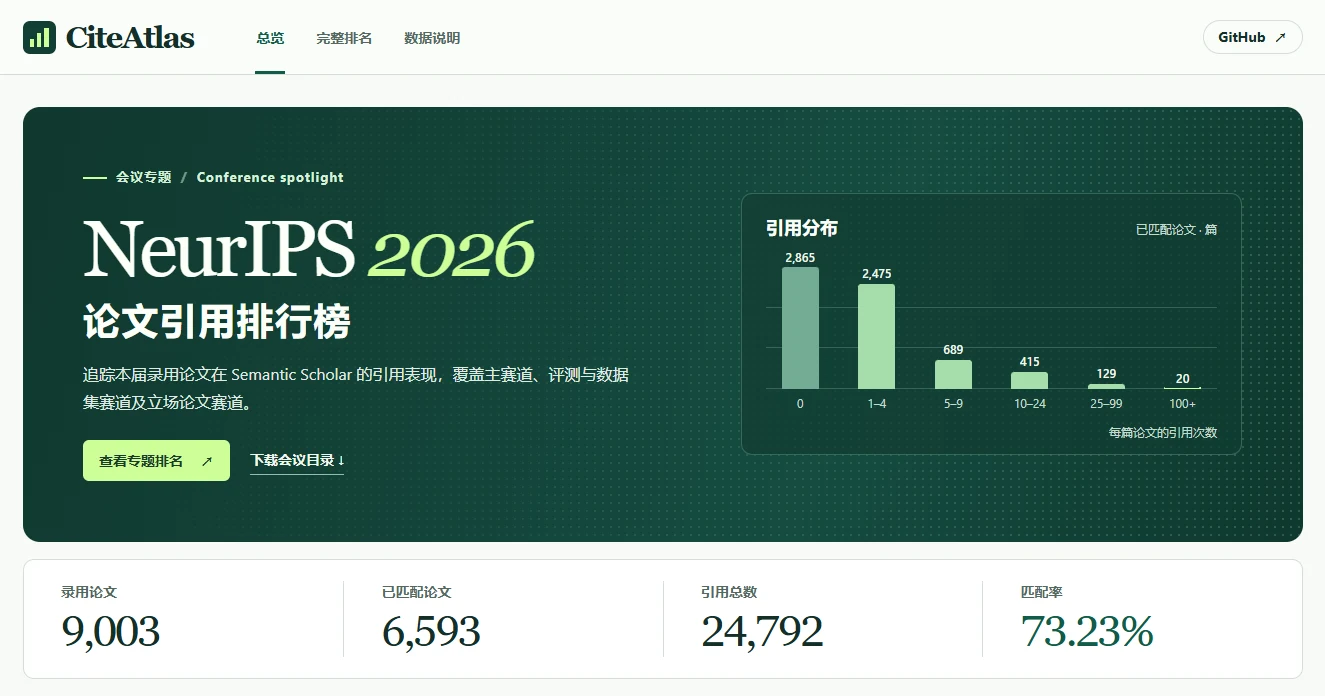
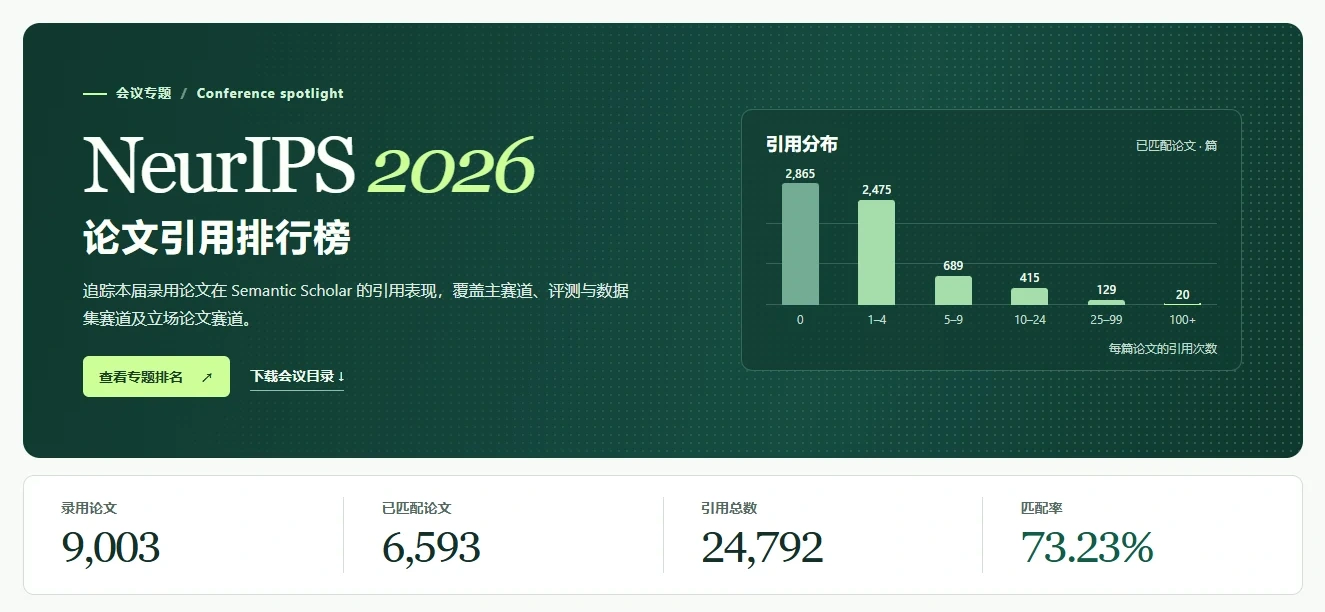
Use a plain Chinese title for the citation rankings

diff --git a/overrides/citation-atlas.html b/overrides/citation-atlas.html
@@ -25,7 +25,7 @@
 <a class="skip" href="#main">跳至主要内容</a>
 <header class="mast">
   <div class="wrap navline">
-    <a class="brand" href="{{ './' if home else '../' }}" aria-label="CiteAtlas 首页"><span class="brand-mark" aria-hidden="true"><i></i><i></i><i></i></span>CiteAtlas</a>
+    <a class="brand" href="{{ './' if home else '../' }}" aria-label="AI 论文引用榜 首页"><span class="brand-mark" aria-hidden="true"><i></i><i></i><i></i></span>AI 论文引用榜</a>
     <nav aria-label="主导航">
       <a href="{{ './' if home else '../' }}"{% if home %} aria-current="page"{% endif %}>总览</a>
       <a href="{{ board }}"{% if not home %} aria-current="page"{% endif %}>完整排名</a>
@@ -73,12 +73,12 @@
  </aside>
 </div>
 <section class="method" id="method" aria-labelledby="method-title">
-  <div><p class="eyebrow ink">CiteAtlas</p><h2 id="method-title">这份榜单怎么读？</h2><a class="inline" href="{{ board }}">浏览全部会议排名 ↗</a></div>
-  <div class="method-text"><p>CiteAtlas 每周更新 AI 会议论文的公开引用记录。我们按 Semantic Scholar 论文 ID 去重，既可比较总引用，也可查看该索引标记的高影响力引用。</p>
+  <div><h2 id="method-title">这份榜单怎么读？</h2><a class="inline" href="{{ board }}">浏览全部会议排名 ↗</a></div>
+  <div class="method-text"><p>榜单每周更新 AI 会议论文的公开引用记录。我们按 Semantic Scholar 论文 ID 去重，既可比较总引用，也可查看该索引标记的高影响力引用。</p>
   <p>NeurIPS 2026 采用会场录用年份。遇到预印本改名，我们交叉核对作者、摘要、旧题名与项目页。匹配率以完整录用目录为分母。已匹配且引用数为 0 的论文正常入榜，尚未核实的论文保留在目录中。</p></div>
 </section>
 {% else %}
-<div class="board-heading"><div><p class="eyebrow ink"><span class="rule"></span> CiteAtlas</p><h1 id="ranking-title">论文引用排名</h1><p>按会议、年份或研究领域定位论文，比较 Semantic Scholar 引用记录。</p></div>
+<div class="board-heading"><div><p class="eyebrow ink"><span class="rule"></span> AI 论文引用榜</p><h1 id="ranking-title">论文引用排名</h1><p>按会议、年份或研究领域定位论文，比较 Semantic Scholar 引用记录。</p></div>
 <a class="edition-link" data-edition-url="{{ edition }}" data-overview-url="../" href="{{ edition }}">NeurIPS 2026 专题排名 ↗</a></div>
 <div class="board-info"><span>全站收录 <b data-cl-stat="works">{{ '{:,}'.format(atlas.works) }}</b> 篇已匹配论文</span><span>更新于 <time data-cl-stat="updated">{{ atlas.date }}</time></span></div>
 <form class="filters" aria-label="筛选论文" onsubmit="return false">
@@ -96,5 +96,5 @@
 <noscript>完整交互排名需要 JavaScript。可直接<a href="{{ fullcsv }}">下载 NeurIPS 2026 目录</a>。</noscript>
 {% endif %}
 </div></main>
-<footer><div class="wrap foot"><div><b>CiteAtlas</b><span>AI 论文引用榜</span></div><p>论文笔记与分类源自 <a href="https://github.com/zhaoyang97/Paper-Notes">Paper Notes</a> · <a href="https://creativecommons.org/licenses/by-nc-sa/4.0/">CC BY-NC-SA 4.0</a><br>引用数据来自 <a href="https://www.semanticscholar.org/">Semantic Scholar</a></p></div></footer>
+<footer><div class="wrap foot"><div><b>AI 论文引用榜</b></div><p>论文笔记与分类源自 <a href="https://github.com/zhaoyang97/Paper-Notes">Paper Notes</a> · <a href="https://creativecommons.org/licenses/by-nc-sa/4.0/">CC BY-NC-SA 4.0</a><br>引用数据来自 <a href="https://www.semanticscholar.org/">Semantic Scholar</a></p></div></footer>
 </body></html>

diff --git a/docs/javascripts/citation-leaderboard.js b/docs/javascripts/citation-leaderboard.js
@@ -1,4 +1,4 @@
-/* CiteAtlas conference overview and searchable citation rankings. */
+/* AI 论文引用榜 conference overview and searchable citation rankings. */
 (function () {
   "use strict";
 
@@ -590,7 +590,7 @@
     }).catch(function (error) {
       var status = root.querySelector("#cl-status");
       if (status) status.textContent = "引用数据加载失败，请刷新页面重试。";
-      if (window.console) console.error("CiteAtlas:", error);
+      if (window.console) console.error("AI 论文引用榜:", error);
     });
   }
 

diff --git a/README.md b/README.md
@@ -1,10 +1,10 @@
-# CiteAtlas · AI 论文引用榜
+# AI 论文引用榜
 
-CiteAtlas 按 Semantic Scholar 引用数整理 AI 会议论文。首页聚焦 NeurIPS 2026，展示引用分布、收录覆盖率和引用前五名。完整榜支持跨会议比较，可按年份、领域和论文题名筛选，也能按高影响力引用排序。
+本榜按 Semantic Scholar 引用数整理 AI 会议论文。首页聚焦 NeurIPS 2026，展示引用分布、收录覆盖率和引用前五名。完整榜支持跨会议比较，可按年份、领域和论文题名筛选，也能按高影响力引用排序。
 
-**[打开 CiteAtlas](https://yiming421.github.io/Paper-Notes/)**　·　[NeurIPS 2026 排名](https://yiming421.github.io/Paper-Notes/leaderboard/?conference=NeurIPS&year=2026)　·　[全部会议](https://yiming421.github.io/Paper-Notes/leaderboard/)
+**[打开排行榜](https://yiming421.github.io/Paper-Notes/)**　·　[NeurIPS 2026 排名](https://yiming421.github.io/Paper-Notes/leaderboard/?conference=NeurIPS&year=2026)　·　[全部会议](https://yiming421.github.io/Paper-Notes/leaderboard/)
 
-[![CiteAtlas 的 NeurIPS 2026 专题首页预览](docs/assets/citeatlas-overview.webp)](https://yiming421.github.io/Paper-Notes/)
+[![NeurIPS 2026 专题首页预览](docs/assets/citeatlas-overview.webp)](https://yiming421.github.io/Paper-Notes/)
 
 ## NeurIPS 2026
 
@@ -22,4 +22,4 @@ CiteAtlas 按 Semantic Scholar 引用数整理 AI 会议论文。首页聚焦 Ne
 
 ## 来源与许可
 
-本项目 fork 自 [zhaoyang97 / Paper Notes](https://github.com/zhaoyang97/Paper-Notes)，沿用其论文笔记与分类。CiteAtlas 增加了引用匹配、NeurIPS 2026 会场目录和独立的排行榜界面。笔记原作者为 zhaoyang97，沿用 [CC BY-NC-SA 4.0](LICENSE)。会议元数据来自 [NeurIPS](https://neurips.cc/Downloads/2026)，引用数据来自 [Semantic Scholar](https://www.semanticscholar.org/)。
+本项目 fork 自 [zhaoyang97 / Paper Notes](https://github.com/zhaoyang97/Paper-Notes)，沿用其论文笔记与分类。本项目增加了引用匹配、NeurIPS 2026 会场目录和独立的排行榜界面。笔记原作者为 zhaoyang97，沿用 [CC BY-NC-SA 4.0](LICENSE)。会议元数据来自 [NeurIPS](https://neurips.cc/Downloads/2026)，引用数据来自 [Semantic Scholar](https://www.semanticscholar.org/)。

diff --git a/docs/leaderboard.md b/docs/leaderboard.md
@@ -1,5 +1,5 @@
 ---
-title: 论文排名 · CiteAtlas
+title: 论文排名 · AI 论文引用榜
 description: 按会议、年份、领域或题名筛选论文，查看 Semantic Scholar 总引用和高影响力引用。
 template: citation-atlas.html
 search:

diff --git a/docs/index.md b/docs/index.md
@@ -1,5 +1,5 @@
 ---
-title: CiteAtlas · AI 论文引用榜
+title: AI 论文引用榜
 description: 探索 AI 会议论文的引用排名，查看 NeurIPS 2026 三个赛道的引用分布、覆盖率和领先论文。
 template: citation-atlas.html
 search:
